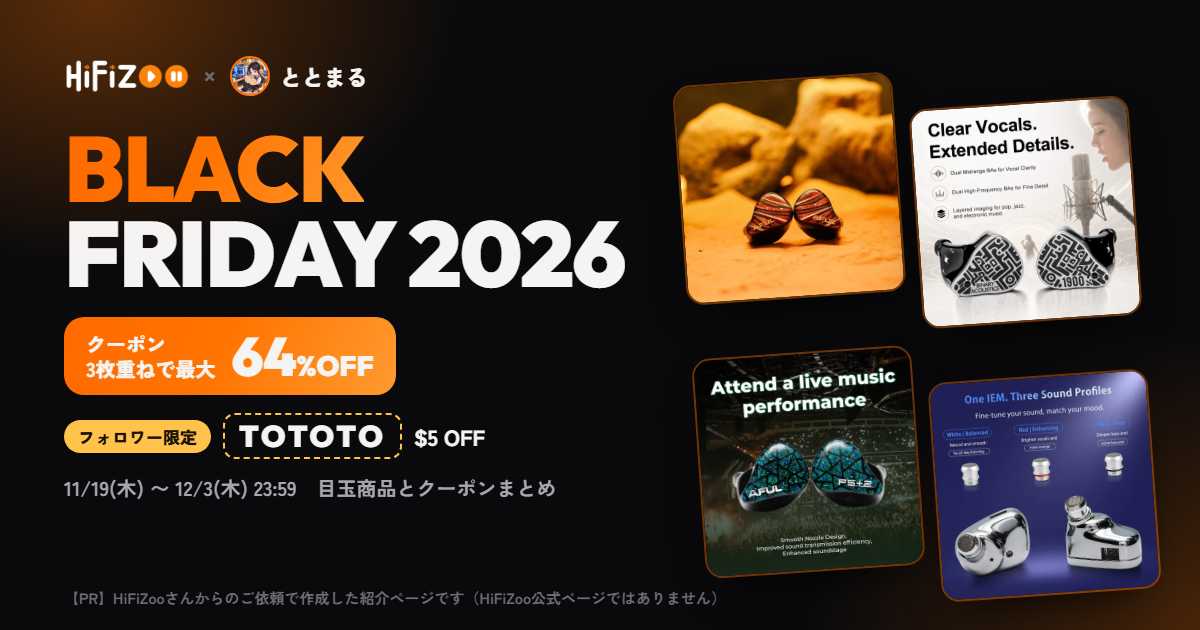
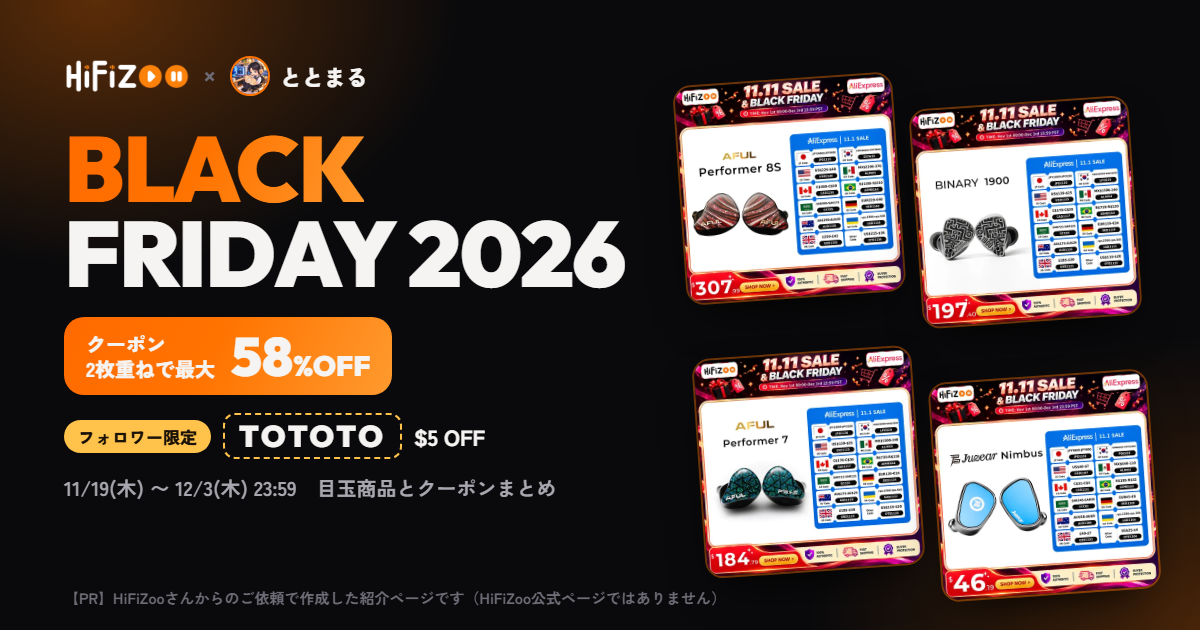
ストアクーポンとTOTOTOは併用不可に修正（HiFiZooさん確認）
- 価格を「ストアコード／TOTOTOのお得な方＋AliExpressコード」で再計算
- 各商品にお得な方の印と、使った組み合わせ・もう一方の価格を表示
- 見出し・クーポン枠・使い方・注意書き・OGP画像を2枚重ね（最大58%）に修正

Changed region(s): [[0.555, 0.5429, 0.9867, 0.9651], [0.555, 0.1206, 0.9558, 0.5429], [0.0617, 0.5127, 0.3392, 0.6333]]

diff --git a/hifizoo-bf-2026/data.js b/hifizoo-bf-2026/data.js
@@ -1,1 +1,1 @@
-window.ITEMS=[{"b":"Dunu","n":"淵（SUBSURGE）","p":10283,"f":7035,"r":32,"s":"515151","a":"JPBF05","u":"https://www.aliexpress.com/item/1005013456153577.html","h":1,"rv":"https://note.com/large_pony1261/n/n4ca0fe49f278","img":"img/p/0.webp?v=202611170821","fz":6235,"rz":39},{"b":"Dunu","n":"Titan X","p":6398,"f":4093,"r":36,"s":"SALEJP1","a":"JPBF03","u":"https://www.aliexpress.com/item/1005012382200656.html","h":1,"img":"img/p/1.webp?v=202611170821","fz":3293,"rz":49},{"b":"Dunu","n":"ITO","p":31998,"f":22088,"r":31,"s":"SALEJP16","a":"JPBF17","u":"https://www.aliexpress.com/item/1005012386560310.html","h":0,"img":"img/p/2.webp?v=202611170821","fz":21288,"rz":33},{"b":"Dunu","n":"Davinci","p":47998,"f":29320,"r":39,"s":"SALEJP11","a":"JPBF31","u":"https://www.aliexpress.com/item/1005012382282581.html","h":1,"img":"img/p/3.webp?v=202611170821","fz":28520,"rz":41},{"b":"Dunu","n":"DN242","p":55840,"f":38954,"r":30,"s":"DNDNDN","a":"JPBF31","u":"https://www.aliexpress.com/item/1005012393493791.html","h":1,"img":"img/p/4.webp?v=202611170821","fz":38154,"rz":32},{"b":"Dunu","n":"DN142","p":39840,"f":29955,"r":25,"s":"DNDNDN","a":"JPBF17","u":"https://www.aliexpress.com/item/1005012393819316.html","h":0,"img":"img/p/5.webp?v=202611170821","fz":29155,"rz":27},{"b":"Dunu","n":"PRS5","p":32867,"f":24898,"r":24,"s":"","a":"JPBF17","u":"https://www.aliexpress.com/item/1005013401648864.html","h":0,"img":"img/p/6.webp?v=202611170821","fz":24098,"rz":27},{"b":"JUZEAR","n":"Defiant","p":15998,"f":11023,"r":31,"s":"SALEJP3","a":"JPBF09","u":"https://www.aliexpress.com/item/1005012378181283.html","h":0,"img":"img/p/7.webp?v=202611170821","fz":10223,"rz":36},{"b":"JUZEAR","n":"Fiesta","p":19198,"f":12911,"r":33,"s":"SALEJP7","a":"JPBF09","u":"https://www.aliexpress.com/item/1005012381162520.html","h":0,"img":"img/p/8.webp?v=202611170821","fz":12111,"rz":37},{"b":"JUZEAR","n":"Nimbus","p":8798,"f":6267,"r":29,"s":"SALEJP4","a":"JPBF05","u":"https://www.aliexpress.com/item/1005012898042561.html","h":1,"img":"img/p/9.webp?v=202611170821","fz":5467,"rz":38},{"b":"JUZEAR","n":"Light Shuttle","p":30398,"f":21416,"r":30,"s":"SALEJP12","a":"JPBF17","u":"https://www.aliexpress.com/item/1005012953023089.html","h":1,"img":"img/p/10.webp?v=202611170821","fz":20616,"rz":32},{"b":"JUZEAR","n":"Defiant Gaming","p":17598,"f":12143,"r":31,"s":"SALEJP6","a":"JPBF09","u":"https://www.aliexpress.com/item/1005012383953941.html","h":0,"img":"img/p/11.webp?v=202611170821","fz":11343,"rz":36},{"b":"JUZEAR","n":"Nebula","p":20798,"f":14175,"r":32,"s":"SALEJP7","a":"JPBF09","u":"https://www.aliexpress.com/item/3256812277156253.html","h":0,"img":"img/p/12.webp?v=202611170821","fz":13375,"rz":36},{"b":"Musehifi","n":"M7","p":76189,"f":52410,"r":31,"s":"171717","a":"JPBF46","u":"https://www.aliexpress.com/item/1005013472599131.html","h":1,"img":"img/p/13.webp?v=202611170821","fz":51610,"rz":32},{"b":"Musehifi","n":"M3 Ultra","p":17598,"f":12527,"r":29,"s":"SALEJP7","a":"JPBF09","u":"https://www.aliexpress.com/item/3256812229062787.html","h":1,"img":"img/p/14.webp?v=202611170821","fz":11727,"rz":33},{"b":"Musehifi","n":"U3","p":4798,"f":3389,"r":29,"s":"SALEJP1","a":"JPBF03","u":"https://www.aliexpress.com/item/1005013224360035.html","h":0,"img":"img/p/15.webp?v=202611170821","fz":2589,"rz":46},{"b":"Musehifi","n":"M6 Double","p":63840,"f":46150,"r":28,"s":"SALEJP19","a":"JPBF31","u":"https://www.aliexpress.com/item/1005012394453571.html","h":0,"img":"img/p/16.webp?v=202611170821","fz":45350,"rz":29},{"b":"Musehifi","n":"Muse300","p":76640,"f":52283,"r":32,"s":"SALEJP18","a":"JPBF46","u":"https://www.aliexpress.us/item/3256812376296620.html","h":0,"img":"img/p/17.webp?v=202611170821","fz":51483,"rz":33},{"b":"PULA","n":"ARC","p":4318,"f":2351,"r":46,"s":"112211","a":"JPBF03","u":"https://www.aliexpress.com/item/1005012637621566.html","h":0,"img":"img/p/18.webp?v=202611170821","fz":1551,"rz":64},{"b":"Binary","n":"EP321-MEMS","p":49598,"f":35944,"r":28,"s":"SALEJP9","a":"JPBF31","u":"https://www.aliexpress.com/item/1005012391234099.html","h":0,"img":"img/p/19.webp?v=202611170821","fz":35144,"rz":29},{"b":"Binary","n":"1900","p":37600,"f":27594,"r":27,"s":"SALEJP19","a":"JPBF17","u":"https://www.aliexpress.com/item/3256812384529023.html","h":1,"img":"img/p/20.webp?v=202611170821","fz":26794,"rz":29},{"b":"AFUL","n":"MiracleOne","p":34283,"f":25287,"r":26,"s":"515151","a":"JPBF17","u":"https://www.aliexpress.com/item/1005013400876561.html","h":0,"rv":"https://note.com/large_pony1261/n/n9b5adc4b519d","img":"img/p/21.webp?v=202611170821","fz":24487,"rz":29},{"b":"AFUL","n":"ICEBORNE","p":23998,"f":15903,"r":34,"s":"SALEJP10","a":"JPBF09","u":"https://www.aliexpress.com/item/1005012396698962.html","h":0,"img":"img/p/22.webp?v=202611170821","fz":15103,"rz":37},{"b":"AFUL","n":"Performer 8S","p":62398,"f":42456,"r":32,"s":"SALEJP20","a":"JPBF31","u":"https://www.aliexpress.com/item/1005012385733210.html","h":1,"img":"img/p/23.webp?v=202611170821","fz":41656,"rz":33},{"b":"AFUL","n":"Performer 5+2","p":38398,"f":26056,"r":32,"s":"SALEJP11","a":"JPBF17","u":"https://www.aliexpress.com/item/1005012377811439.html","h":1,"img":"img/p/24.webp?v=202611170821","fz":25256,"rz":34},{"b":"AFUL","n":"Dawn-X","p":207840,"f":153536,"r":26,"s":"SALEJP17","a":"JPBF60","u":"https://www.aliexpress.com/item/1005012390282191.html","h":0,"img":"img/p/25.webp?v=202611170821","fz":152736,"rz":27},{"b":"AFUL","n":"Cantor","p":132480,"f":88224,"r":33,"s":"SALEJP15","a":"JPBF60","u":"https://www.aliexpress.com/item/1005012386149834.html","h":0,"img":"img/p/26.webp?v=202611170821","fz":87424,"rz":34},{"b":"EA","n":"ARC Oval","p":3038,"f":1911,"r":37,"s":"SALEJP2","a":"JPBF03","u":"https://www.aliexpress.com/item/1005013265880208.html","h":0,"img":"img/p/27.webp?v=202611170821","fz":1111,"rz":63},{"b":"ZhuAudio","n":"Qingluan Z4","p":8320,"f":5866,"r":30,"s":"SALEJP5","a":"JPBF05","u":"https://www.aliexpress.com/item/1005013313700969.html","h":0,"img":"img/p/28.webp?v=202611170821","fz":5066,"rz":39},{"b":"HiFiZoo","n":"福袋","p":8379,"f":6235,"r":26,"s":"","a":"JPBF05","u":"https://www.aliexpress.com/item/1005012391028202.html","h":0,"img":"img/p/29.webp?v=202611170821","fz":5435,"rz":35},{"b":"Elysian Acoustic Labs","n":"PILGRIM26","p":53331,"f":39080,"r":27,"s":"515151","a":"JPBF31","u":"https://www.aliexpress.com/item/1005013472675625.html","h":0,"img":"img/p/30.webp?v=202611170821","fz":38280,"rz":28}];
+window.ITEMS=[{"b":"Dunu","n":"淵（SUBSURGE）","p":10283,"r":32,"s":"515151","a":"JPBF05","u":"https://www.aliexpress.com/item/1005013456153577.html","h":1,"rv":"https://note.com/large_pony1261/n/n4ca0fe49f278","img":"img/p/0.webp?v=202611171900","fz":7035,"rz":32,"fs":7035,"ft":7035,"best":"e","so":5},{"b":"Dunu","n":"Titan X","p":6398,"r":36,"s":"SALEJP1","a":"JPBF03","u":"https://www.aliexpress.com/item/1005012382200656.html","h":1,"img":"img/p/1.webp?v=202611171900","fz":3453,"rz":46,"fs":4093,"ft":3453,"best":"t","so":1},{"b":"Dunu","n":"ITO","p":31998,"r":31,"s":"SALEJP16","a":"JPBF17","u":"https://www.aliexpress.com/item/1005012386560310.html","h":0,"img":"img/p/2.webp?v=202611171900","fz":22088,"rz":31,"fs":22088,"ft":22088,"best":"e","so":5},{"b":"Dunu","n":"Davinci","p":47998,"r":39,"s":"SALEJP11","a":"JPBF31","u":"https://www.aliexpress.com/item/1005012382282581.html","h":1,"img":"img/p/3.webp?v=202611171900","fz":29320,"rz":39,"fs":29320,"ft":29320,"best":"e","so":5},{"b":"Dunu","n":"DN242","p":55840,"r":30,"s":"DNDNDN","a":"JPBF31","u":"https://www.aliexpress.com/item/1005012393493791.html","h":1,"img":"img/p/4.webp?v=202611171900","fz":38954,"rz":30,"fs":38954,"ft":38954,"best":"e","so":5},{"b":"Dunu","n":"DN142","p":39840,"r":25,"s":"DNDNDN","a":"JPBF17","u":"https://www.aliexpress.com/item/1005012393819316.html","h":0,"img":"img/p/5.webp?v=202611171900","fz":29955,"rz":25,"fs":29955,"ft":29955,"best":"e","so":5},{"b":"Dunu","n":"PRS5","p":32867,"r":24,"s":"","a":"JPBF17","u":"https://www.aliexpress.com/item/1005013401648864.html","h":0,"img":"img/p/6.webp?v=202611171900","fz":24098,"rz":27,"fs":24898,"ft":24098,"best":"t","so":0},{"b":"JUZEAR","n":"Defiant","p":15998,"r":31,"s":"SALEJP3","a":"JPBF09","u":"https://www.aliexpress.com/item/1005012378181283.html","h":0,"img":"img/p/7.webp?v=202611171900","fz":10543,"rz":34,"fs":11023,"ft":10543,"best":"t","so":2},{"b":"JUZEAR","n":"Fiesta","p":19198,"r":33,"s":"SALEJP7","a":"JPBF09","u":"https://www.aliexpress.com/item/1005012381162520.html","h":0,"img":"img/p/8.webp?v=202611171900","fz":12911,"rz":33,"fs":12911,"ft":12911,"best":"e","so":5},{"b":"JUZEAR","n":"Nimbus","p":8798,"r":29,"s":"SALEJP4","a":"JPBF05","u":"https://www.aliexpress.com/item/1005012898042561.html","h":1,"img":"img/p/9.webp?v=202611171900","fz":5787,"rz":34,"fs":6267,"ft":5787,"best":"t","so":2},{"b":"JUZEAR","n":"Light Shuttle","p":30398,"r":30,"s":"SALEJP12","a":"JPBF17","u":"https://www.aliexpress.com/item/1005012953023089.html","h":1,"img":"img/p/10.webp?v=202611171900","fz":21416,"rz":30,"fs":21416,"ft":21416,"best":"e","so":5},{"b":"JUZEAR","n":"Defiant Gaming","p":17598,"r":31,"s":"SALEJP6","a":"JPBF09","u":"https://www.aliexpress.com/item/1005012383953941.html","h":0,"img":"img/p/11.webp?v=202611171900","fz":11823,"rz":33,"fs":12143,"ft":11823,"best":"t","so":3},{"b":"JUZEAR","n":"Nebula","p":20798,"r":32,"s":"SALEJP7","a":"JPBF09","u":"https://www.aliexpress.com/item/3256812277156253.html","h":0,"img":"img/p/12.webp?v=202611171900","fz":14175,"rz":32,"fs":14175,"ft":14175,"best":"e","so":5},{"b":"Musehifi","n":"M7","p":76189,"r":31,"s":"171717","a":"JPBF46","u":"https://www.aliexpress.com/item/1005013472599131.html","h":1,"img":"img/p/13.webp?v=202611171900","fz":52410,"rz":31,"fs":52410,"ft":55770,"best":"s","so":26},{"b":"Musehifi","n":"M3 Ultra","p":17598,"r":29,"s":"SALEJP7","a":"JPBF09","u":"https://www.aliexpress.com/item/3256812229062787.html","h":1,"img":"img/p/14.webp?v=202611171900","fz":12527,"rz":29,"fs":12527,"ft":12527,"best":"e","so":5},{"b":"Musehifi","n":"U3","p":4798,"r":29,"s":"SALEJP1","a":"JPBF03","u":"https://www.aliexpress.com/item/1005013224360035.html","h":0,"img":"img/p/15.webp?v=202611171900","fz":2749,"rz":43,"fs":3389,"ft":2749,"best":"t","so":1},{"b":"Musehifi","n":"M6 Double","p":63840,"r":28,"s":"SALEJP19","a":"JPBF31","u":"https://www.aliexpress.com/item/1005012394453571.html","h":0,"img":"img/p/16.webp?v=202611171900","fz":46150,"rz":28,"fs":46150,"ft":46630,"best":"s","so":8},{"b":"Musehifi","n":"Muse300","p":76640,"r":32,"s":"SALEJP18","a":"JPBF46","u":"https://www.aliexpress.us/item/3256812376296620.html","h":0,"img":"img/p/17.webp?v=202611171900","fz":52283,"rz":32,"fs":52283,"ft":53083,"best":"s","so":10},{"b":"PULA","n":"ARC","p":4318,"r":46,"s":"112211","a":"JPBF03","u":"https://www.aliexpress.com/item/1005012637621566.html","h":0,"img":"img/p/18.webp?v=202611171900","fz":1871,"rz":57,"fs":2351,"ft":1871,"best":"t","so":2},{"b":"Binary","n":"EP321-MEMS","p":49598,"r":28,"s":"SALEJP9","a":"JPBF31","u":"https://www.aliexpress.com/item/1005012391234099.html","h":0,"img":"img/p/19.webp?v=202611171900","fz":35944,"rz":28,"fs":35944,"ft":35944,"best":"e","so":5},{"b":"Binary","n":"1900","p":37600,"r":27,"s":"SALEJP19","a":"JPBF17","u":"https://www.aliexpress.com/item/3256812384529023.html","h":1,"img":"img/p/20.webp?v=202611171900","fz":27594,"rz":27,"fs":27594,"ft":28074,"best":"s","so":8},{"b":"AFUL","n":"MiracleOne","p":34283,"r":26,"s":"515151","a":"JPBF17","u":"https://www.aliexpress.com/item/1005013400876561.html","h":0,"rv":"https://note.com/large_pony1261/n/n9b5adc4b519d","img":"img/p/21.webp?v=202611171900","fz":25287,"rz":26,"fs":25287,"ft":25287,"best":"e","so":5},{"b":"AFUL","n":"ICEBORNE","p":23998,"r":34,"s":"SALEJP10","a":"JPBF09","u":"https://www.aliexpress.com/item/1005012396698962.html","h":0,"img":"img/p/22.webp?v=202611171900","fz":15903,"rz":34,"fs":15903,"ft":16703,"best":"s","so":10},{"b":"AFUL","n":"Performer 8S","p":62398,"r":32,"s":"SALEJP20","a":"JPBF31","u":"https://www.aliexpress.com/item/1005012385733210.html","h":1,"img":"img/p/23.webp?v=202611171900","fz":42456,"rz":32,"fs":42456,"ft":43576,"best":"s","so":12},{"b":"AFUL","n":"Performer 5+2","p":38398,"r":32,"s":"SALEJP11","a":"JPBF17","u":"https://www.aliexpress.com/item/1005012377811439.html","h":1,"img":"img/p/24.webp?v=202611171900","fz":26056,"rz":32,"fs":26056,"ft":26056,"best":"e","so":5},{"b":"AFUL","n":"Dawn-X","p":207840,"r":26,"s":"SALEJP17","a":"JPBF60","u":"https://www.aliexpress.com/item/1005012390282191.html","h":0,"img":"img/p/25.webp?v=202611171900","fz":153536,"rz":26,"fs":153536,"ft":155936,"best":"s","so":20},{"b":"AFUL","n":"Cantor","p":132480,"r":33,"s":"SALEJP15","a":"JPBF60","u":"https://www.aliexpress.com/item/1005012386149834.html","h":0,"img":"img/p/26.webp?v=202611171900","fz":88224,"rz":33,"fs":88224,"ft":89024,"best":"s","so":10},{"b":"EA","n":"ARC Oval","p":3038,"r":37,"s":"SALEJP2","a":"JPBF03","u":"https://www.aliexpress.com/item/1005013265880208.html","h":0,"img":"img/p/27.webp?v=202611171900","fz":1271,"rz":58,"fs":1911,"ft":1271,"best":"t","so":1},{"b":"ZhuAudio","n":"Qingluan Z4","p":8320,"r":30,"s":"SALEJP5","a":"JPBF05","u":"https://www.aliexpress.com/item/1005013313700969.html","h":0,"img":"img/p/28.webp?v=202611171900","fz":5386,"rz":35,"fs":5866,"ft":5386,"best":"t","so":2},{"b":"HiFiZoo","n":"福袋","p":8379,"r":26,"s":"","a":"JPBF05","u":"https://www.aliexpress.com/item/1005012391028202.html","h":0,"img":"img/p/29.webp?v=202611171900","fz":5435,"rz":35,"fs":6235,"ft":5435,"best":"t","so":0},{"b":"Elysian Acoustic Labs","n":"PILGRIM26","p":53331,"r":27,"s":"515151","a":"JPBF31","u":"https://www.aliexpress.com/item/1005013472675625.html","h":0,"img":"img/p/30.webp?v=202611171900","fz":39080,"rz":27,"fs":39080,"ft":39080,"best":"e","so":5}];

diff --git a/hifizoo-bf-2026/index.html b/hifizoo-bf-2026/index.html
@@ -4,17 +4,17 @@
 <meta charset="utf-8">
 <meta name="viewport" content="width=device-width,initial-scale=1,viewport-fit=cover">
 <title>HiFiZoo ブラックフライデー2026 おすすめまとめ｜ととまる</title>
-<meta name="description" content="HiFiZooのブラックフライデーセール対象のイヤホン・オーディオ機器を、クーポンコード付きでまとめました。フォロワー限定クーポンTOTOTOも併用OK。【PR】">
+<meta name="description" content="HiFiZooのブラックフライデーセール対象のイヤホン・オーディオ機器を、クーポンコード付きでまとめました。フォロワー限定クーポンTOTOTOも使えます。【PR】">
 <meta property="og:title" content="HiFiZoo ブラックフライデー2026 おすすめまとめ【PR】">
-<meta property="og:description" content="クーポン3枚重ねで最大64%オフ。目玉商品とコードをまとめました。">
+<meta property="og:description" content="クーポン2枚重ねで最大58%オフ。目玉商品とコードをまとめました。">
 <meta property="og:type" content="website">
 <meta name="twitter:card" content="summary_large_image">
 <meta property="og:url" content="https://totomaru4029.github.io/hifizoo-bf-2026/">
-<meta property="og:image" content="https://totomaru4029.github.io/hifizoo-bf-2026/img/og.png">
+<meta property="og:image" content="https://totomaru4029.github.io/hifizoo-bf-2026/img/og.png?v=2">
 <meta property="og:image:width" content="1200">
 <meta property="og:image:height" content="630">
-<meta property="og:image:alt" content="HiFiZoo × ととまる BLACK FRIDAY 2026 クーポン3枚重ねで最大64%OFF">
-<meta name="twitter:image" content="https://totomaru4029.github.io/hifizoo-bf-2026/img/og.png">
+<meta property="og:image:alt" content="HiFiZoo × ととまる BLACK FRIDAY 2026 クーポン2枚重ねで最大58%OFF">
+<meta name="twitter:image" content="https://totomaru4029.github.io/hifizoo-bf-2026/img/og.png?v=2">
 <meta property="og:site_name" content="ととまる">
 <meta property="og:locale" content="ja_JP">
 <meta name="theme-color" content="#0a0a0c">
@@ -282,6 +282,14 @@ section{padding:28px 0}
 :focus-visible{outline:2px solid var(--gold);outline-offset:2px}
 .rail:focus-visible{outline-offset:-2px;border-radius:12px}
 
+.code.rec{border-style:solid;border-color:var(--or);background:#ff730014;position:relative}
+.code.rec::after{content:"お得";position:absolute;top:-8px;right:4px;font-size:9px;font-weight:900;color:#fff;background:var(--or);border-radius:999px;padding:0 6px;line-height:15px;font-family:"Zen Kaku Gothic New"}
+.code.vipc.rec{border-color:var(--gold);background:#ffc24a1f}
+.code.vipc.rec::after{background:var(--gold);color:#1a1208}
+.code.dim{opacity:.55}
+.buy-steps.two{grid-template-columns:1.3fr 1fr}
+.buy-steps li.pick{border-color:#ffc24a88;background:#ffc24a0d}
+.buy-steps li.pick em{font-style:normal;color:var(--gold);font-size:11px;margin:0 2px}
 /* how / me / notes */
 .steps{display:grid;grid-template-columns:repeat(4,1fr);gap:12px}
 .step{background:var(--card);border:1px solid var(--line);border-radius:var(--r);padding:18px}
@@ -486,7 +494,7 @@ body.sheet-open{overflow:hidden}
       </div>
     </div>
     <div class="stats">
-      <div class="maxoff"><span>クーポン<br>3枚重ねで最大</span><span class="num" id="maxoff">64<small>%OFF</small></span></div>
+      <div class="maxoff"><span>クーポン<br>2枚重ねで最大</span><span class="num" id="maxoff">58<small>%OFF</small></span></div>
       <div class="cd"><div class="lbl" id="cdlbl">セール開始まで</div><div class="boxes" id="cd"></div><div class="period" id="period"></div></div>
     </div>
   </header>
@@ -509,18 +517,17 @@ body.sheet-open{overflow:hidden}
       <div>
         <span class="tag">ととまるフォロワー限定</span>
         <h2><span class="num">$5 OFF</span> 専用クーポン</h2>
-        <p><b>全クーポンと併用OK</b>・11/19〜12/3<span class="dt">。このページの価格は、TOTOTOまで使った「クーポン適用後の参考価格」です。</span></p>
+        <p><b>AliExpressコードと併用OK</b>・11/19〜12/3<span class="dt">。ストアクーポンとはどちらか1つです。安い機種ほどTOTOTOがお得になります。</span></p>
       </div>
       <button class="vipcode" data-c="TOTOTO" aria-label="クーポンコード TOTOTO をコピー"><small>COUPON CODE</small><b>TOTOTO</b><i>タップでコピー</i></button>
     </div></div>
     <div class="buy">
-      <p class="buy-q">この価格で購入するには？　<span>3つのクーポンを全部使います</span></p>
-      <ol class="buy-steps">
-        <li><b>①</b><span>ストアコード</span><small>商品ごとに違う</small></li>
-        <li><b>②</b><span>AliExpressコード</span><small>JPBF〜</small></li>
-        <li class="v"><b>③</b><span>TOTOTO</span><small>フォロワー限定</small></li>
+      <p class="buy-q">この価格で購入するには？　<span>クーポンを2つ使います</span></p>
+      <ol class="buy-steps two">
+        <li class="pick"><b>①</b><span>ストアコード <em>または</em> TOTOTO</span><small>どちらか1つ。各商品の「お得」マークの方を</small></li>
+        <li><b>②</b><span>AliExpressコード</span><small>JPBF〜・①と一緒に使えます</small></li>
       </ol>
-      <p class="buy-n">各商品のコードはタップでコピーできます。<a href="#how" data-open-how>くわしい使い方を見る</a></p>
+      <p class="buy-n">ストアコードとTOTOTOは一緒には使えません。各商品のコードはタップでコピーできます。<a href="#how" data-open-how>くわしい使い方を見る</a></p>
     </div>
   </section>
 
@@ -541,13 +548,12 @@ body.sheet-open{overflow:hidden}
     <div class="sheet-in">
       <div class="sheet-grip" aria-hidden="true"></div>
       <div class="sheet-h"><h2 id="howT">クーポンの使い方</h2><button class="sheet-x" data-close aria-label="閉じる">✕</button></div>
-      <p class="sheet-lead">3つのクーポンを全部使うと、このページの<b>参考価格</b>になります。コードはタップでコピーできます。</p>
+      <p class="sheet-lead">①と②の2つを使うと、このページの<b>参考価格</b>になります。コードはタップでコピーできます。</p>
       <ol class="sheet-steps">
         <li><b class="num">1</b><div><h3>商品ページを開く</h3><p>「AliExpressで見る」からAliExpressの商品ページへ移動します。</p></div></li>
-        <li><b class="num">2</b><div><h3>① ストアコード</h3><p>商品ごとに違うコードです。注文画面の「ストアクーポン」欄に入力します。</p></div></li>
-        <li><b class="num">3</b><div><h3>② AliExpressコード</h3><p>JPBF〜で始まるコードです。支払い前のクーポン欄に入力します。</p></div></li>
-        <li class="v"><b class="num">4</b><div><h3>③ TOTOTO</h3><p>フォロワー限定の$5 OFF。①②と併用できます。</p>
-          <button class="code vipc sheet-code" data-c="TOTOTO" aria-label="TOTOTO をコピー"><small>③限定・タップでコピー</small><b>TOTOTO</b></button></div></li>
+        <li class="v"><b class="num">2</b><div><h3>① ストアコード または TOTOTO</h3><p>どちらも「ストアクーポン」欄に入れるコードなので、<b>使えるのはどちらか1つ</b>です。各商品で「お得」マークが付いている方を入力してください。安い機種はTOTOTO（$5 OFF）、高い機種はストアコードの方が安くなりがちです。</p>
+          <button class="code vipc sheet-code" data-c="TOTOTO" aria-label="TOTOTO をコピー"><small>フォロワー限定・タップでコピー</small><b>TOTOTO</b></button></div></li>
+        <li><b class="num">3</b><div><h3>② AliExpressコード</h3><p>JPBF〜で始まるコードです。①と一緒に使えます。支払い前のクーポン欄に入力します。</p></div></li>
       </ol>
       <button class="sheet-ok" data-close>わかった</button>
     </div>
@@ -567,7 +573,7 @@ body.sheet-open{overflow:hidden}
 
   <section>
     <ul class="notes">
-      <li>表示価格は、①ストアコード・②AliExpressコード・③TOTOTOの3つを使った場合の<b>クーポン適用後の参考価格</b>です。「TOTOTOなし」は①②だけを使った場合の参考価格です。</li>
+      <li>表示価格は、①ストアコードかTOTOTOのお得な方と、②AliExpressコードの2つを使った場合の<b>クーポン適用後の参考価格</b>です。ストアコードとTOTOTOは一緒には使えません（HiFiZooさん確認済み）。</li>
       <li>円の価格は目安です（1ドル＝160円で計算。TOTOTOの$5は約800円）。実際の支払額は為替やAliExpressの表示で変わります。</li>
       <li>クーポンは先着や枚数、利用条件がある場合があります。</li>
       <li>価格・在庫・クーポン内容は予告なく変わることがあります。購入前に商品ページで確認してください。</li>
@@ -579,7 +585,7 @@ body.sheet-open{overflow:hidden}
 <footer><img class="logo" src="img/hifizoo-logo.png" alt="HiFiZoo">© ととまる　｜　Prices as of Nov 2026</footer>
 <div class="toast" id="toast" role="status" aria-live="polite">コピーしました</div>
 
-<script src="data.js?v=202611170821"></script>
+<script src="data.js?v=202611171900"></script>
 <script>
 const START = new Date("2026-11-19T00:00:00+09:00");
 const END   = new Date("2026-12-03T23:59:59+09:00");
@@ -589,15 +595,17 @@ const esc = s => String(s).replace(/[&<>"]/g,c=>({"&":"&amp;","<":"&lt;",">":"&g
 const items = window.ITEMS.map((x,i)=>({...x,i}));
 
 const EXT = `<svg class="ext" viewBox="0 0 24 24" aria-hidden="true"><path d="M14 4h6v6M20 4l-9 9M18 14v5a1 1 0 0 1-1 1H5a1 1 0 0 1-1-1V7a1 1 0 0 1 1-1h5" fill="none" stroke="currentColor" stroke-width="2.2" stroke-linecap="round" stroke-linejoin="round"/></svg>`;
-function codeBtn(label,val){
+function codeBtn(label,val,cls=""){
   if(!val) return `<span class="code none"><small>${label}</small><b>なし</b></span>`;
-  return `<button class="code" data-c="${esc(val)}" aria-label="${label} ${esc(val)} をコピー"><small>${label}</small><b>${esc(val)}</b></button>`;
+  return `<button class="code ${cls}" data-c="${esc(val)}" aria-label="${label} ${esc(val)} をコピー"><small>${label}</small><b>${esc(val)}</b></button>`;
 }
-const vipBtn = () => `<button class="code vipc" data-c="TOTOTO" aria-label="③限定 TOTOTO をコピー"><small>③限定</small><b>TOTOTO</b></button>`;
-const codes = x => `<div class="codes-w"><div class="codes-h">使うクーポン<span>タップでコピー</span></div><div class="codes">${codeBtn("①ストア",x.s)}${codeBtn("②AliExpress",x.a)}${vipBtn()}</div></div>`;
+const REC = x => x.best; // s=ストアコードがお得 / t=TOTOTOがお得 / e=同じ
+const vipBtn = x => `<button class="code vipc ${x.best==="t"?"rec":""} ${x.best==="s"?"dim":""}" data-c="TOTOTO" aria-label="①TOTOTO をコピー"><small>①TOTOTO</small><b>TOTOTO</b></button>`;
+const codes = x => `<div class="codes-w"><div class="codes-h">使うクーポン<span>①はどちらか1つ＋②</span></div><div class="codes">${codeBtn("①ストア",x.s,x.best==="s"?"rec":x.best==="t"?"dim":"")}${vipBtn(x)}${codeBtn("②AliExpress",x.a,"")}</div></div>`;
 const shopBtn = (x,cls="btn") => `<a class="${cls}" href="${x.u}" target="_blank" rel="noopener sponsored" aria-label="${esc(x.n)}をAliExpressで見る（外部サイト）">AliExpressで見る${EXT}</a>`;
 const revBtn = (x,cls="btn ghost") => x.rv ? `<a class="${cls}" href="${x.rv}" target="_blank" rel="noopener" aria-label="${esc(x.n)}の実機レビューを読む（note）">レビューを読む</a>` : "";
-const noZ = x => x.f; // TOTOTOを使わない場合（①②のみ）の参考価格
+// 価格の内訳（どちらのコードを使った場合か）
+const how2 = x => !x.s ? `TOTOTO＋AliExpressの場合（ストアコードはありません。TOTOTOなしなら ¥${yen(x.fs)}）` : x.best==="t" ? `TOTOTO＋AliExpressの場合（ストアコードなら ¥${yen(x.fs)}）` : x.best==="s" ? `ストアコード＋AliExpressの場合（TOTOTOなら ¥${yen(x.ft)}）` : `ストアコード・TOTOTOどちらでも同じ価格`;
 
 /* 目玉カルーセル */
 function card(x){
@@ -607,7 +615,7 @@ function card(x){
       <div><div class="brand">${esc(x.b)}</div><div class="name">${esc(x.n)}</div></div>
       <div><div class="plbl">クーポン適用後の参考価格</div>
       <div class="price"><span class="now"><small>¥</small>${yen(x.fz)}</span><s>¥${yen(x.p)}</s></div>
-      <div class="noz">TOTOTOなし ¥${yen(noZ(x))}</div></div>
+      <div class="noz">${how2(x)}</div></div>
       ${codes(x)}
       <div class="acts">${shopBtn(x)}${revBtn(x)}</div>
     </div>
@@ -693,7 +701,7 @@ function item(x){
       <div class="brand">${esc(x.b)}${x.h?'<span class="pill">🔥目玉</span>':''}${x.rv?'<span class="rvp">実機レビューあり</span>':''}</div>
       <div class="nm">${esc(x.n)}</div>
       <div class="pr"><span class="num">¥${yen(x.fz)}</span><em>-${x.rz}%</em><s>¥${yen(x.p)}</s></div>
-      <div class="noz">参考価格・TOTOTOなし ¥${yen(noZ(x))}</div>
+      <div class="noz">${how2(x)}</div>
     </div>
     ${codes(x)}
     <div class="iacts">${shopBtn(x,"go")}${revBtn(x,"go2")}</div>
